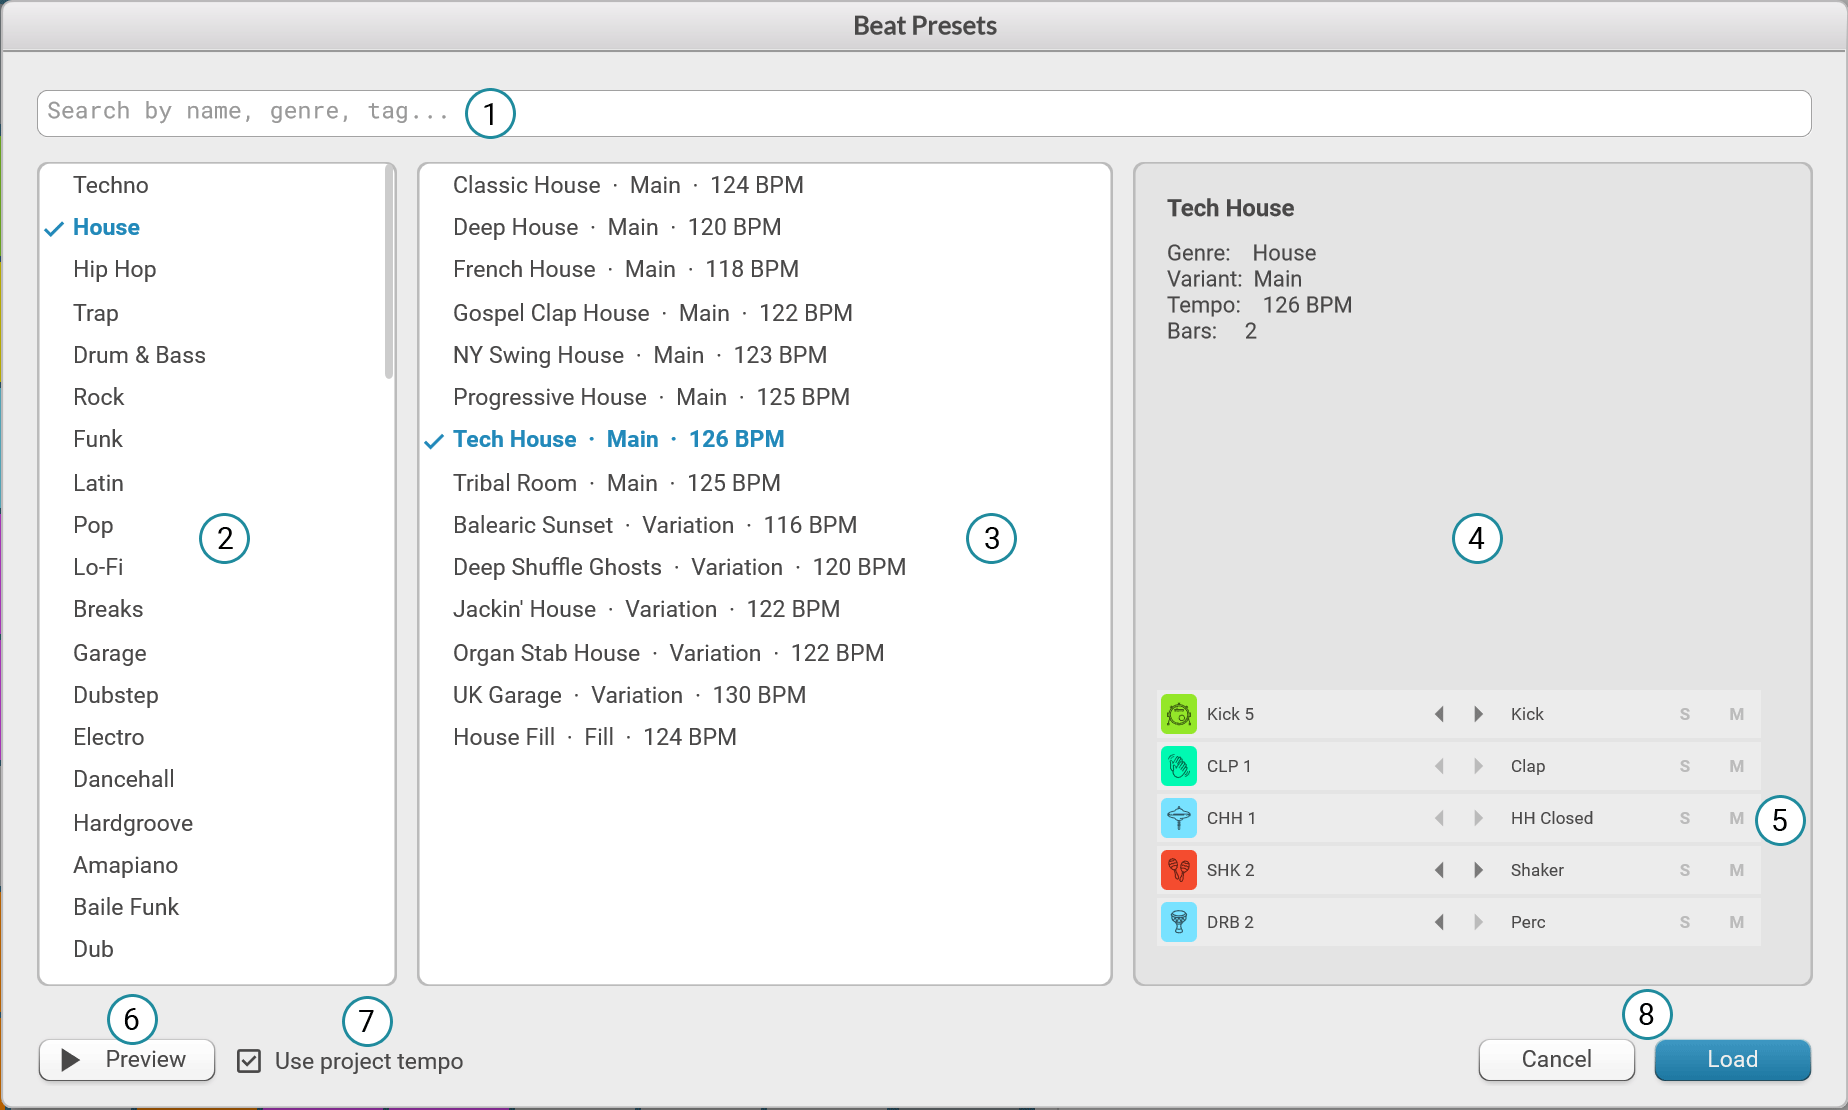
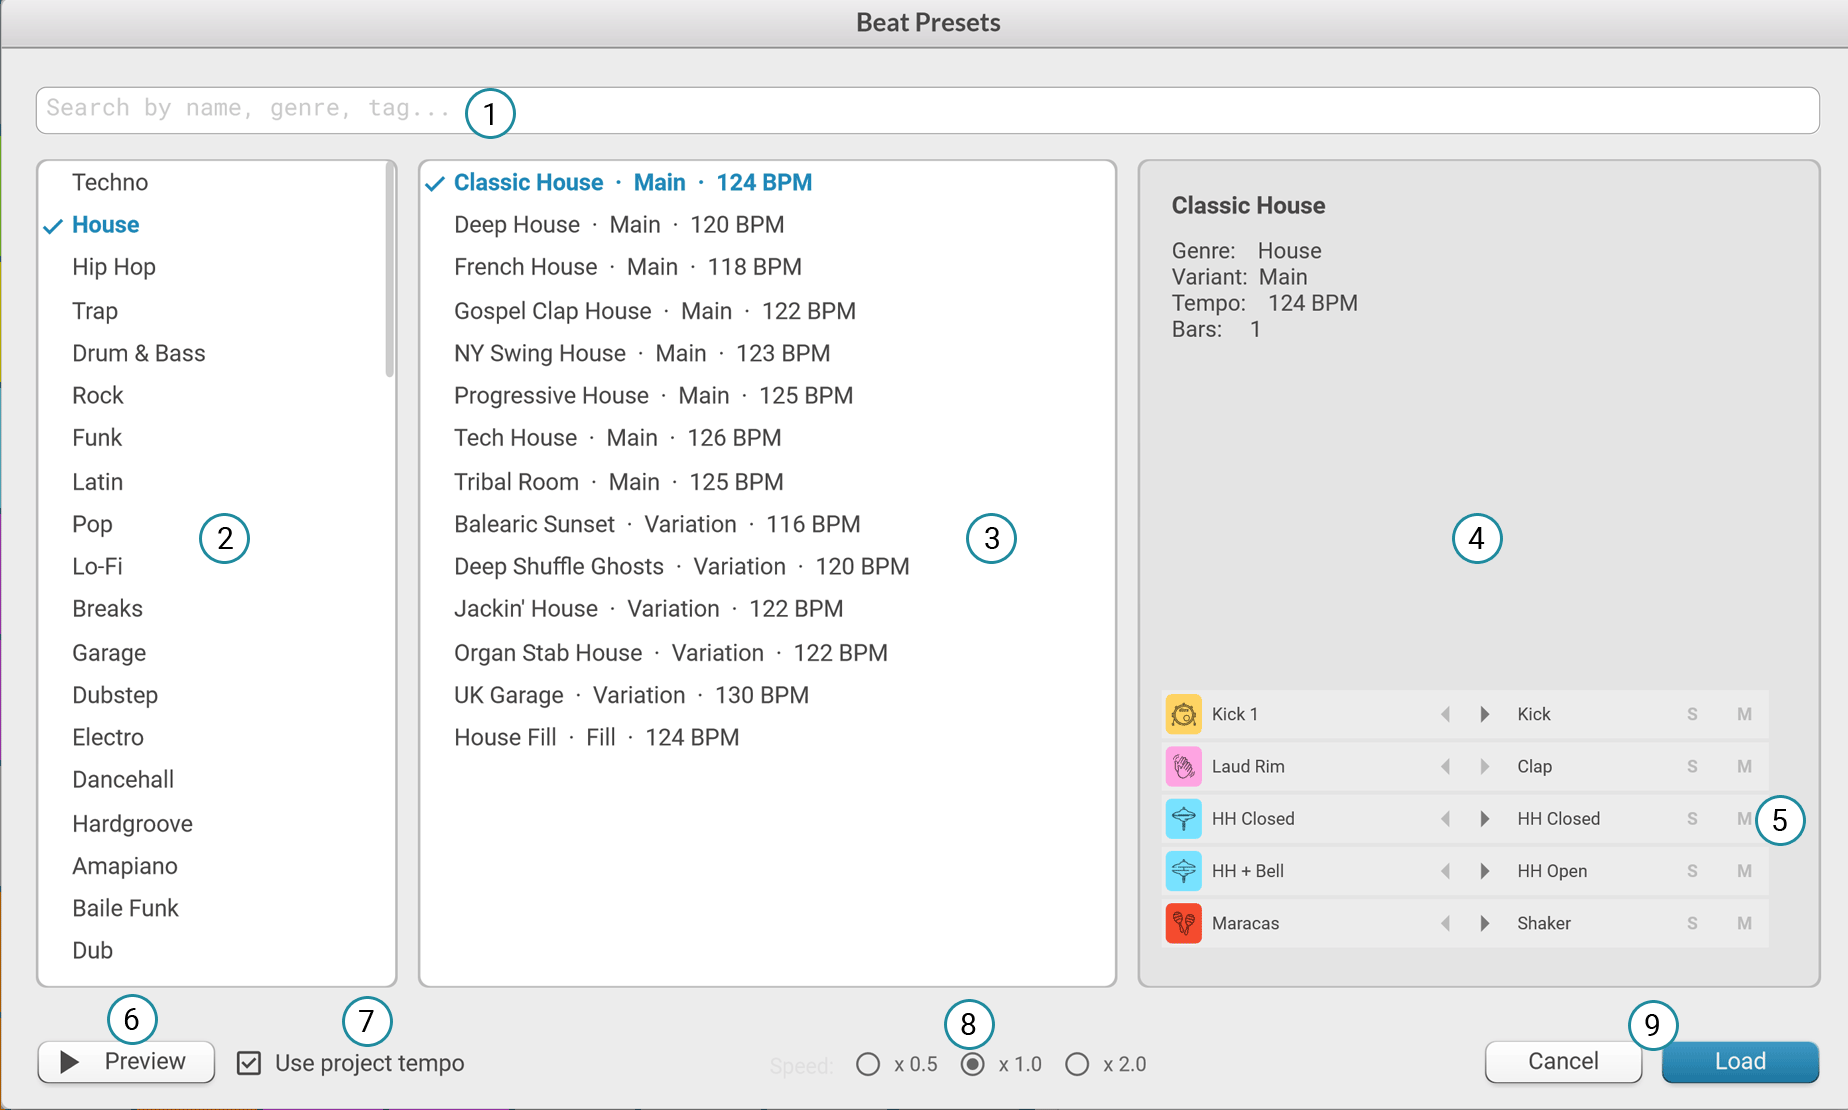
feat: add export project functionality and enhance export options in documentation

diff --git a/src/seed/manual.ts b/src/seed/manual.ts
@@ -111,6 +111,7 @@ const sections = [
   <li><strong>Open Project</strong> \u2014 load a project file.</li>
   <li><strong>Save / Save As</strong> \u2014 save the current project.</li>
   <li><strong>Render Audio</strong> \u2014 generate a stereo audio file from the Timeline arrangement. <strong>(Pro)</strong></li>
+  <li><strong>Export Project</strong> \u2014 package the project for sharing or archiving by copying its media files to a folder you choose. Files use their box names by default. In the export dialog, you can keep the original filenames and include samples with DSP applied.</li>
   <li><strong>Exit</strong> \u2014 close the application.</li>
 </ul>
 
@@ -336,6 +337,7 @@ const sections = [
   <li><strong>Track source panel</strong> \u2014 choose which Sample or MIDI Note each track should use. You can preview assigned sounds, switch to another source in the same instrument type, or change the instrument type for a track.</li>
   <li><strong>Preview</strong> \u2014 audition the selected preset with your current track sources.</li>
   <li><strong>Use Project Tempo</strong> \u2014 switch preview between the preset tempo and your current project tempo.</li>
+  <li><strong>Speed</strong> \u2014 choose <strong>0.5x</strong>, <strong>1x</strong>, or <strong>2x</strong> to set the preset beat's playback speed when you load it.</li>
   <li><strong>Solo / Mute, Cancel / Load</strong> \u2014 use Solo and Mute to decide which drum tracks are heard during preview, then either Cancel to close without changes or Load to apply the preset.</li>
 </ol>
 
@@ -421,6 +423,7 @@ const sections = [
 
 <h4>File</h4>
 <p><strong>Save Meta</strong> \u2014 saves the metadata (name, icon, color, BPM, group number, key, instrument) of all selected clips directly into their audio files.</p>
+<p><strong>Export</strong> \u2014 export the files for your selected boxes to a folder. Select the boxes you want to include, choose <strong>Export</strong>, then pick a destination.</p>
 <p><strong>Quick Tip:</strong> You can also perform basic edits directly in Session View without opening the Page Editor. Right-click boxes to select and move them, and use keyboard shortcuts (like <strong>Delete</strong> or <strong>Backspace</strong>) to remove them.</p>
 `,
 

diff --git a/docs/AppDescription.md b/docs/AppDescription.md
@@ -142,6 +142,7 @@ Help
 - **Save** — saves the project under its current name.
 - **Save As** — saves the project under a new name.
 - **Render Audio** — generates a stereo audio file from the arrangement created in the Timeline. **(Pro)**
+- **Export Project** — copies all media files used by the project to a selected folder for publication or archiving. By default, exported files are renamed using the names assigned to their boxes. The export dialog can preserve original filenames and include samples with DSP applied.
 - **Exit** — closes the application.
 
 ### 5.2 Edit
@@ -382,6 +383,7 @@ The Page Editor panel contains four sections:
 #### 4. File
 
 - **Save Meta** — saves the metadata (name, icon, color, BPM, group number, key, instrument) of all selected clips directly into their audio files.
+- **Export** — exports the files for selected boxes to a chosen folder.
 
 ---
 
@@ -539,6 +541,7 @@ The **Load Factory Preset** button opens a dialog for browsing, previewing, and 
   - You can also choose a Sample or MIDI Note source using selectors or arrow controls.
 - **Preview** — plays the selected preset with the currently selected instrument sources.
 - **Use Project Tempo** — toggles preview between the preset's recommended tempo and the current project tempo.
+- **Speed** — applies a playback speed multiplier to the preset when loading it: 0.5x, 1x, or 2x.
 - **Cancel** — closes the dialog without applying changes.
 - **Load** — loads the selected preset into the current Beat.
 
@@ -646,5 +649,3 @@ Hovering over a file reveals an **info** icon on the right. Clicking it opens a 
 ### 14.4 Transport Control
 
 When a file is being previewed, a transport bar appears at the bottom of the Files panel containing a **Play/Stop** button, a colour-coded waveform, the filename, and a **Volume** knob. The volume knob controls preview playback level. The bar remains visible even when scrolling through the file list. Clicking on the waveform scrubs the playhead to that position (not available in synchronized loop mode).
-
-## Updates
